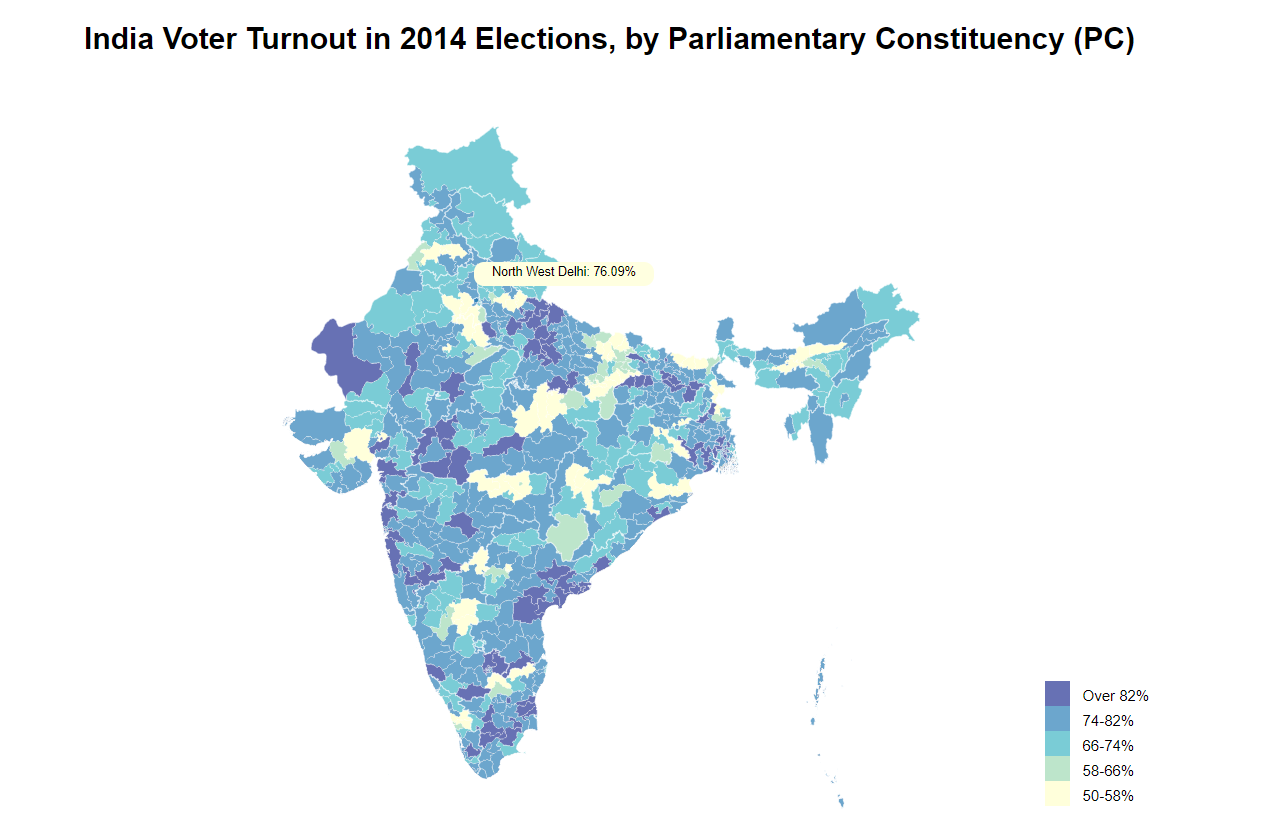
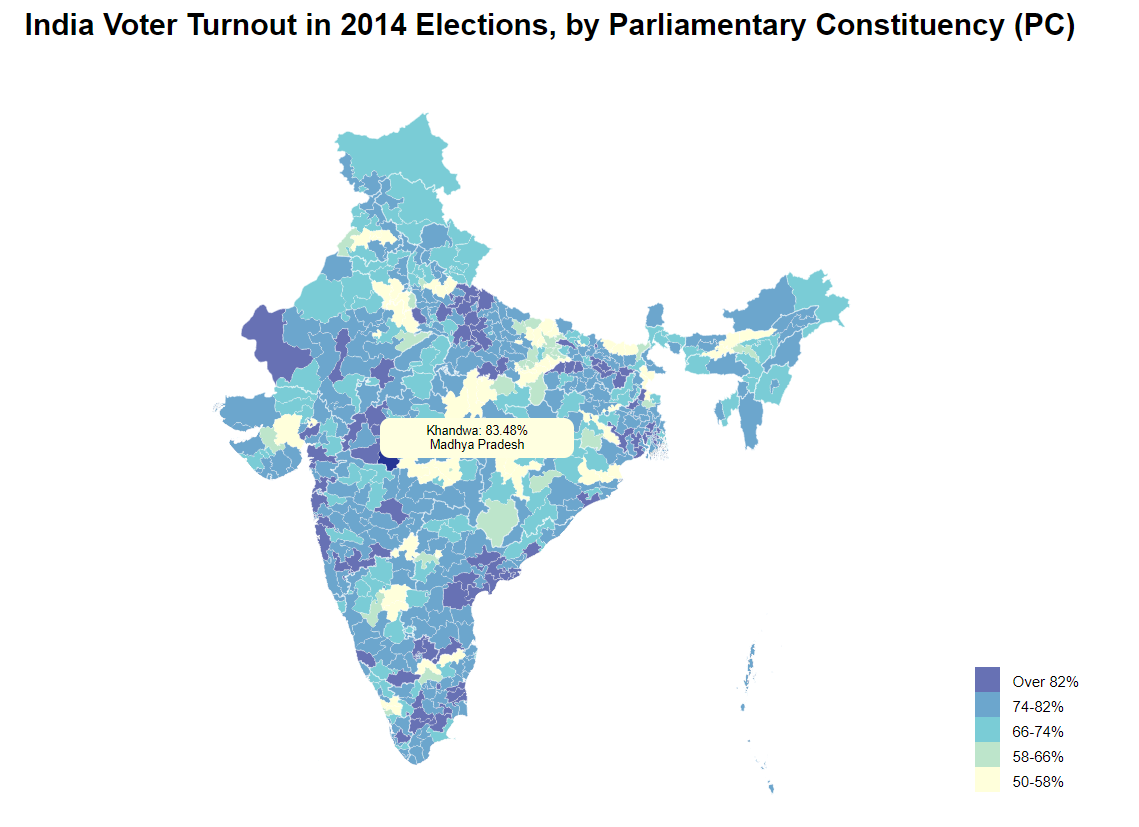
State now displayed on tooltip along with constituency and %

diff --git a/logic.js b/logic.js
@@ -80,7 +80,7 @@ d3.csv("data/india_pc_voter_turnout_2014.csv").then(function(data) {
             // Mouse events
             .on("mouseover", function(d) {
                 d3.select(this).style("opacity", 1);
-                div.text(d.properties.pc_name + ": " + d.properties.voterTurnout + "%" + "<br>" + d.properties.state)
+                div.html(d.properties.pc_name + ": " + d.properties.voterTurnout + "%" + "<br>" + d.properties.state)
                     .style("left", (d3.event.pageX) + "px")
                     .style("top", (d3.event.pageY -30) + "px");
             })

diff --git a/style.css b/style.css
@@ -19,9 +19,9 @@ body {
 div.tooltip {   
   position: absolute;           
   text-align: center;           
-  width: 140px;                  
-  height: 15px;                 
-  padding: 2px;             
+  width: 145px;                  
+  height: 22px;                 
+  padding: 5px;             
   font-size: 10px;     
   background: #FFFFE0;
   border: 1px;      
